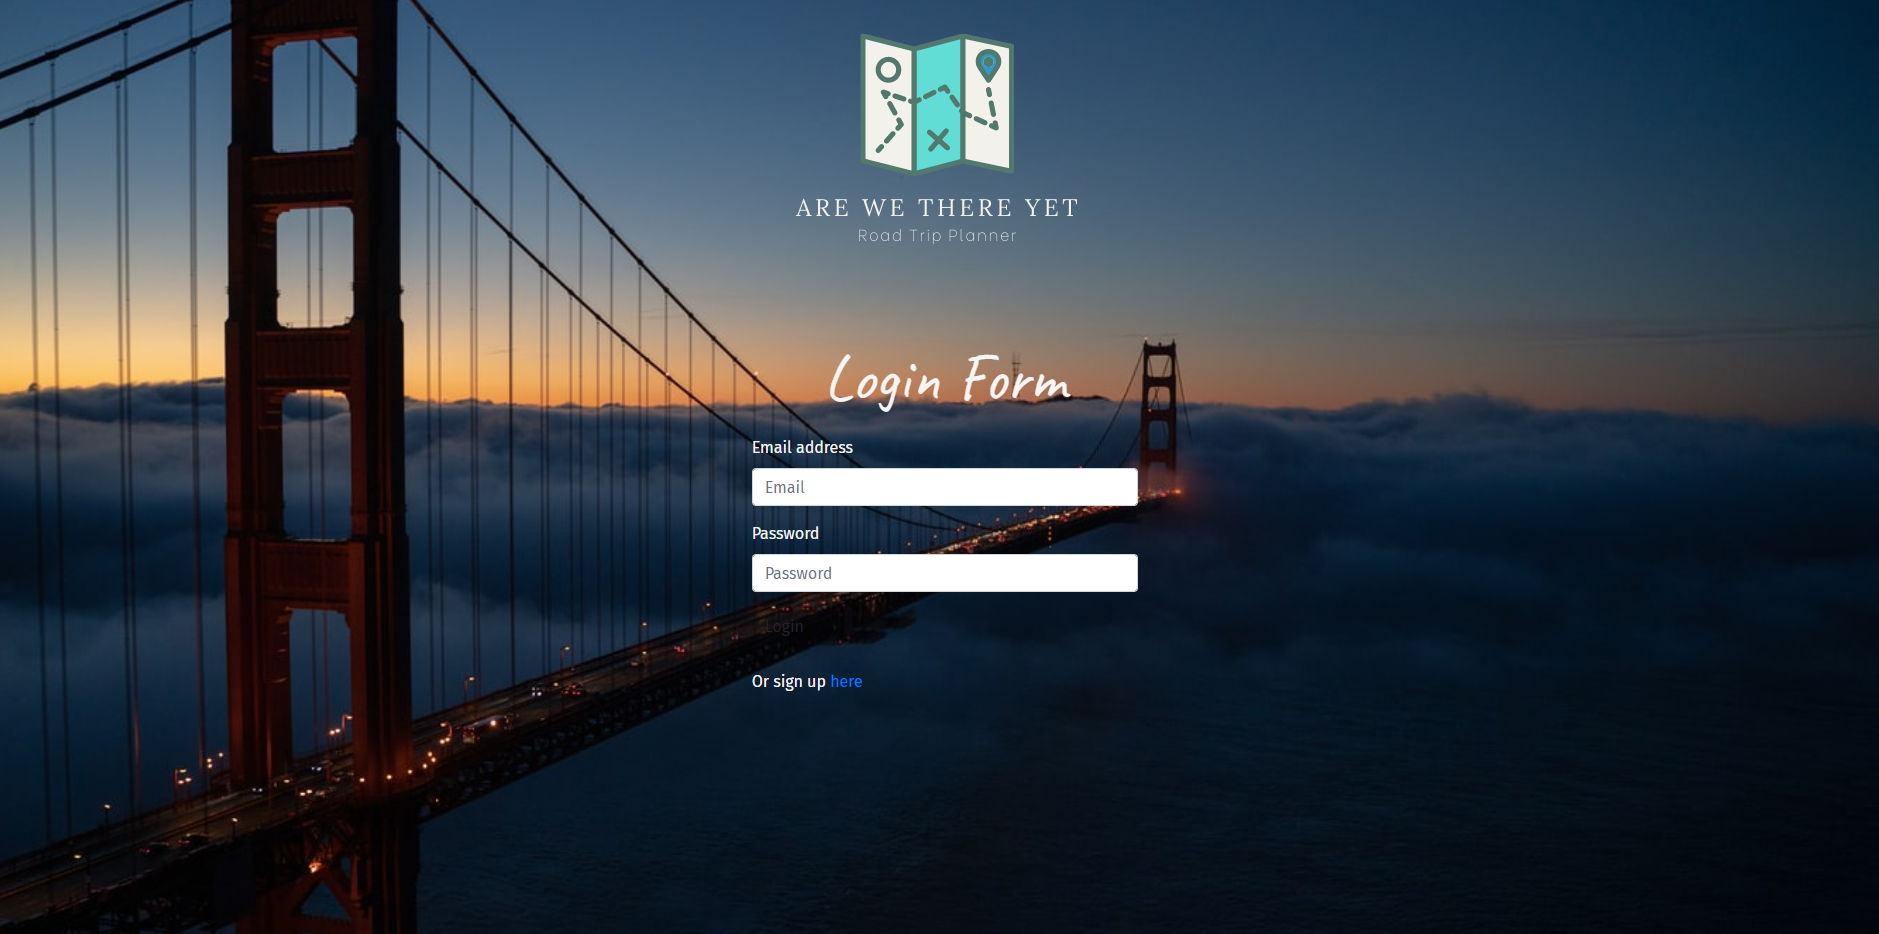
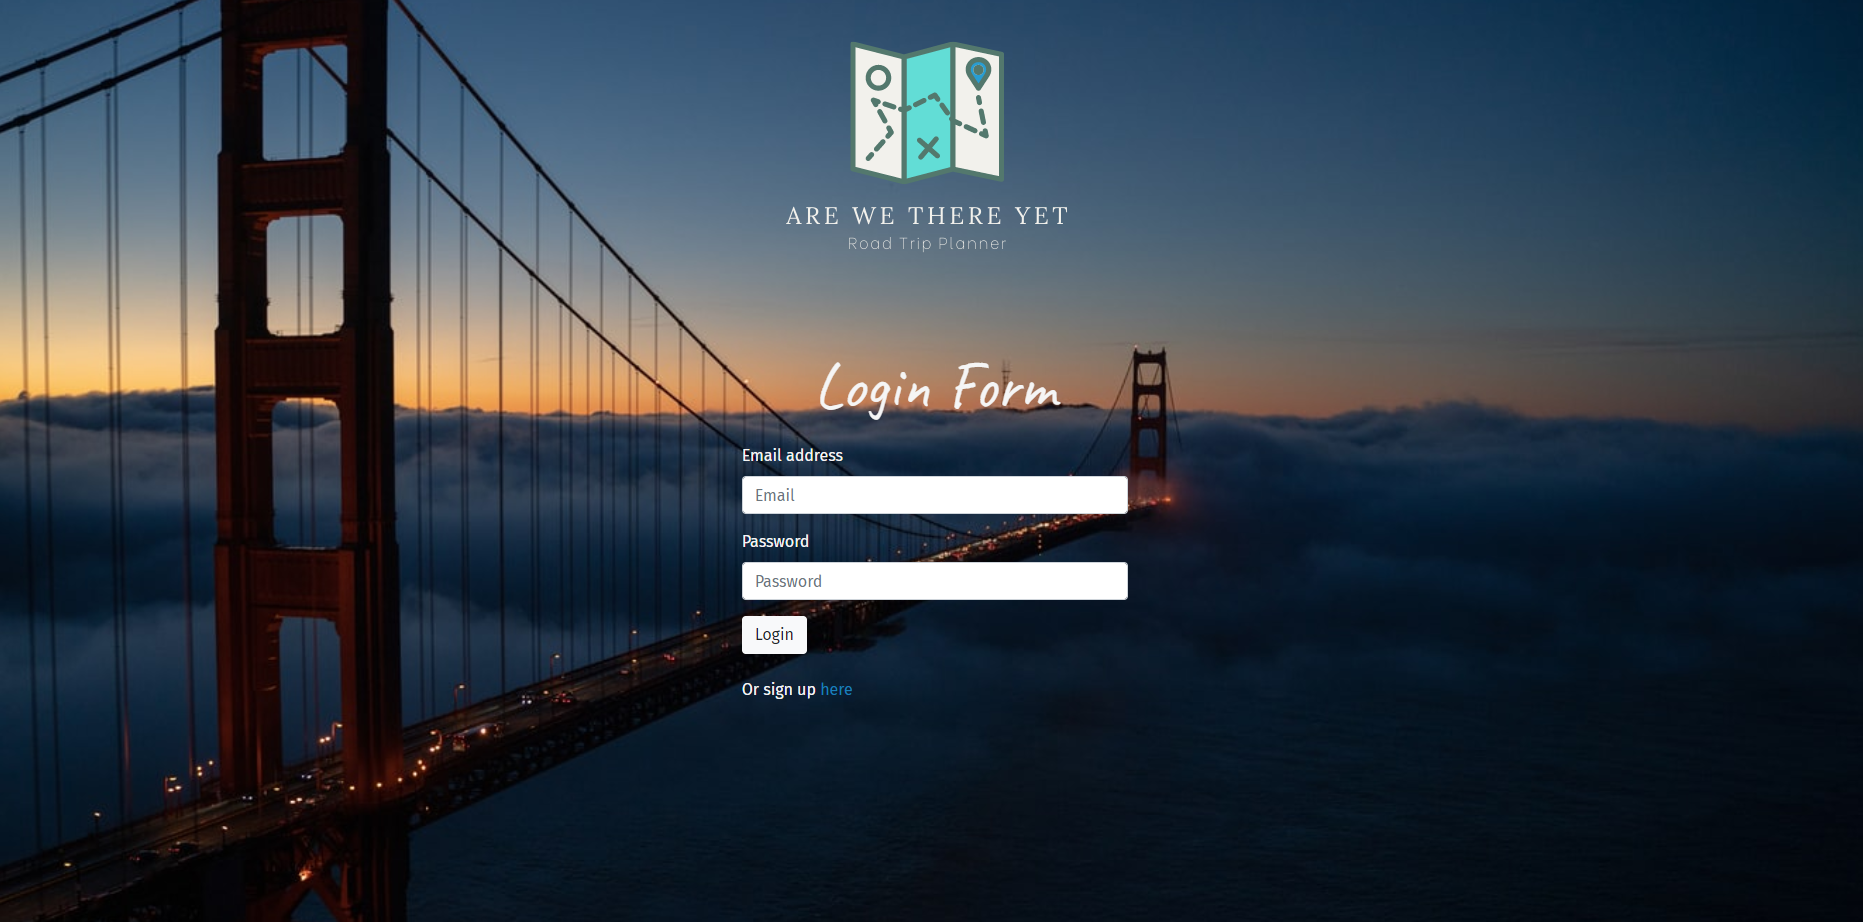
minor styling improvements and responsiveness

diff --git a/public/stylesheets/style.css b/public/stylesheets/style.css
@@ -214,6 +214,7 @@ form.login {
   background-color: white;
   text-align: center;
   border-radius: 25px;
+  padding: 2%;
 }
 
 #back2TripsBtn {
